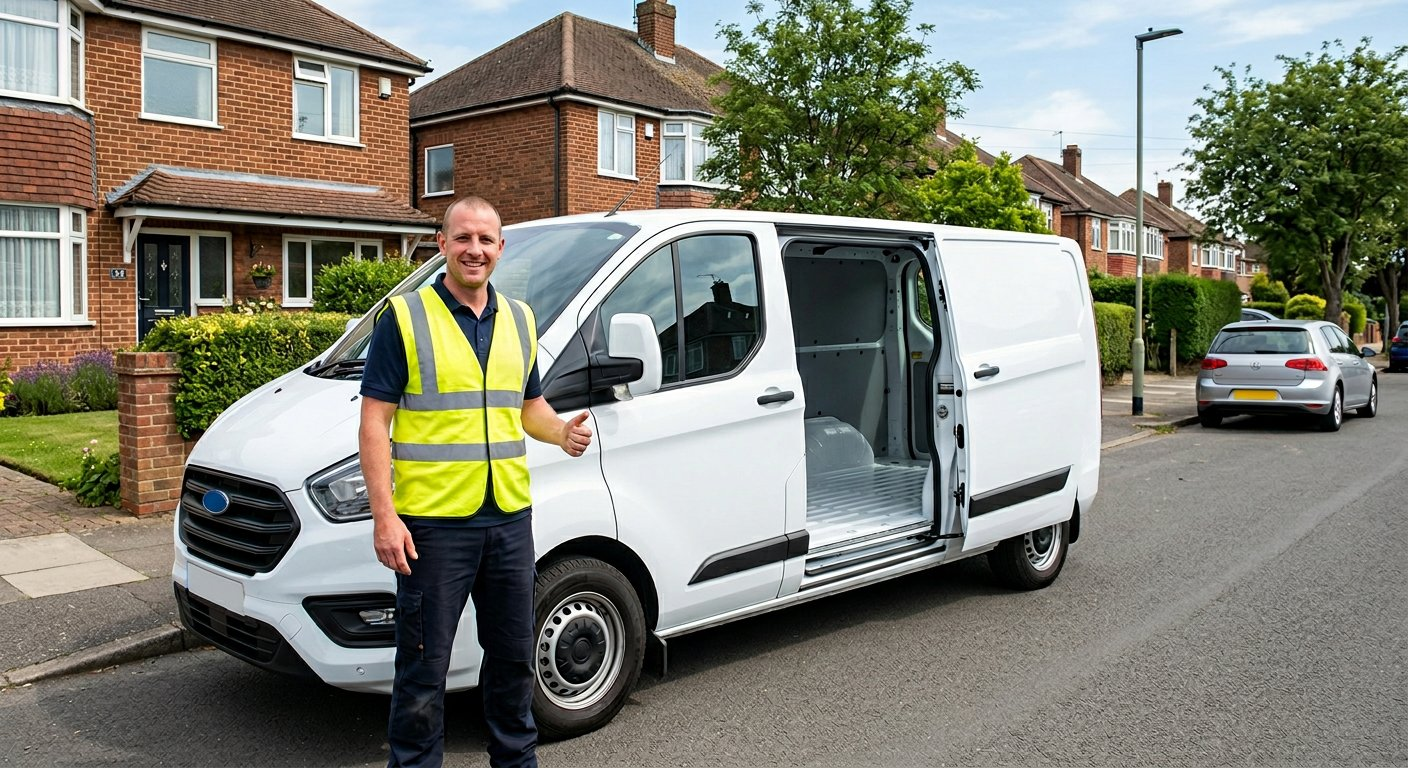
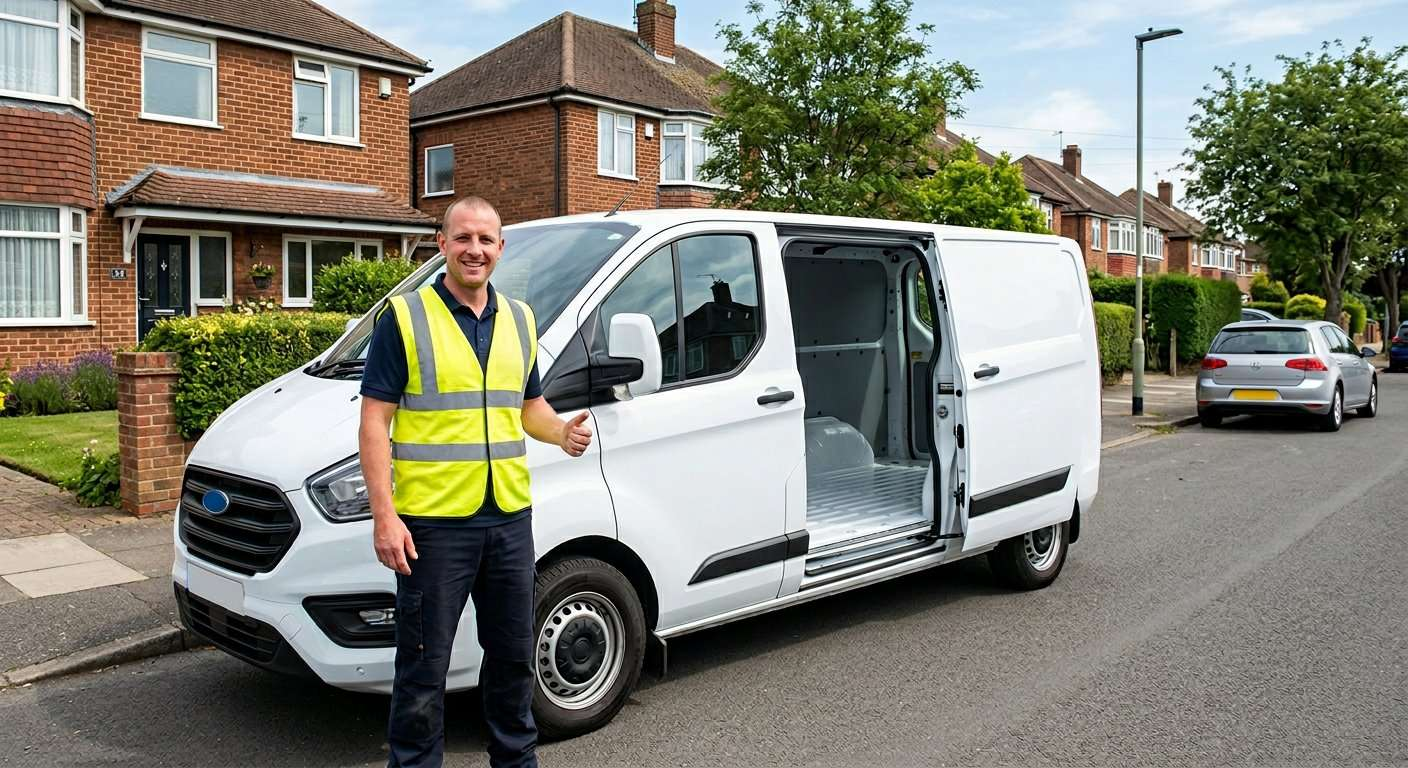
Homepage SEO audit: fix H1 keywords, add content section, update llms.txt, add HowTo schema, fix Service schema, compress hero image
- H1 changed from 'Start Your Move Request' to 'Moving Home? Man and Van From £45' (now contains primary keywords matching title tag)
- Added 'Verified movers' to hero sub-line
- Added visible 'How Man and Van Club works' content section with 2 readable paragraphs between How It Works and Popular Areas
- Fixed llms.txt: all £50 references updated to £45 (was outdated after repricing)
- Removed duplicate canonical from layout.tsx (canonical only in page.tsx now)
- Added piano-removals and single-item-delivery to Service schema serviceType
- Expanded Service schema areaServed to cover all UK regions + Scotland/Wales/Northern Ireland
- Added HowTo schema for 'What happens next' 3-step process
- Compressed hero image: 313KB → 175KB (44% reduction), now progressive JPEG

Changed region(s): [[0.2812, 0.3438, 0.3125, 0.375], [0.25, 0.375, 0.2812, 0.4062]]

diff --git a/src/app/page.tsx b/src/app/page.tsx
@@ -63,6 +63,15 @@ export default function Home() {
       { "@type": "AdministrativeArea", "name": "Greater London" },
       { "@type": "AdministrativeArea", "name": "Greater Manchester" },
       { "@type": "AdministrativeArea", "name": "Merseyside" },
+      { "@type": "AdministrativeArea", "name": "South East England" },
+      { "@type": "AdministrativeArea", "name": "South West England" },
+      { "@type": "AdministrativeArea", "name": "North East England" },
+      { "@type": "AdministrativeArea", "name": "North West England" },
+      { "@type": "AdministrativeArea", "name": "Yorkshire and the Humber" },
+      { "@type": "AdministrativeArea", "name": "East of England" },
+      { "@type": "Country", "name": "Scotland" },
+      { "@type": "Country", "name": "Wales" },
+      { "@type": "Country", "name": "Northern Ireland" },
       { "@type": "Country", "name": "United Kingdom" },
     ],
     "serviceType": [
@@ -73,8 +82,38 @@ export default function Home() {
       "Student moves",
       "Furniture delivery",
       "Office moves",
+      "Piano removals",
+      "Single item delivery",
     ],
     "description": "Marketplace helping customers submit free move requests for anything from single-item collections to full home moves. An approved mover reviews the details and sends a quote before the customer decides whether to book.",
+  };
+
+  const howToSchema = {
+    "@context": "https://schema.org",
+    "@type": "HowTo",
+    "name": "How to get a man and van quote on Man and Van Club",
+    "description": "Submit a free move request, receive a quote from a verified mover, and decide whether to book — no obligation.",
+    "totalTime": "PT2M",
+    "step": [
+      {
+        "@type": "HowToStep",
+        "position": 1,
+        "name": "Submit your details",
+        "text": "Enter your postcodes, items, move date and access notes. Free and takes under a minute.",
+      },
+      {
+        "@type": "HowToStep",
+        "position": 2,
+        "name": "A verified mover reviews it",
+        "text": "One approved mover — not five companies — reviews your anonymised details and sends a quote.",
+      },
+      {
+        "@type": "HowToStep",
+        "position": 3,
+        "name": "Accept or walk away",
+        "text": "If the quote works, book it. If not, no obligation. Your details stay private.",
+      },
+    ],
   };
 
   return (
@@ -86,6 +125,10 @@ export default function Home() {
       <script
         type="application/ld+json"
         dangerouslySetInnerHTML={{ __html: JSON.stringify(serviceSchema) }}
+      />
+      <script
+        type="application/ld+json"
+        dangerouslySetInnerHTML={{ __html: JSON.stringify(howToSchema) }}
       />
       <HomeContent />
     </>

diff --git a/src/app/HomeContent.tsx b/src/app/HomeContent.tsx
@@ -60,11 +60,11 @@ export default function HomeContent() {
             style={{ fontSize: "clamp(28px, 6.5vw, 44px)", lineHeight: "1.05" }}
             data-speakable="hero-heading"
           >
-            Start Your Move Request
+            Moving Home? Man and Van From £45
           </h1>
 
           <p className="mt-3 text-sm font-bold text-white/80 tracking-wide" data-speakable="hero-description">
-            Free to submit · No spam · Details protected
+            Free to submit · Verified movers · No spam · Details protected
           </p>
 
           {/* Move Type Selector */}
@@ -184,6 +184,23 @@ export default function HomeContent() {
               <h3 className="font-black text-primary text-sm uppercase tracking-tight mb-1">Accept or walk away</h3>
               <p className="text-text-secondary text-xs leading-relaxed">If the quote works, book it. If not, no obligation. Your details stay private.</p>
             </div>
+          </div>
+        </div>
+      </section>
+
+      {/* ──────────────────── About the Service ──────────────────── */}
+      <section className="py-12 lg:py-14 bg-white border-b border-border">
+        <div className="container mx-auto px-4 max-w-3xl">
+          <h2 className="text-2xl font-black text-primary uppercase tracking-tighter text-center mb-6">
+            How Man and Van Club works
+          </h2>
+          <div className="space-y-4 text-sm text-text-secondary leading-relaxed max-w-2xl mx-auto">
+            <p>
+              Man and Van Club is a UK marketplace that connects you with independent, verified local movers. Whether you&apos;re moving a single sofa across town or an entire flat to another city, you submit one free request and a checked-and-approved mover reviews your details before quoting. No comparison tables, no five companies ringing you — just one quote from one verified mover.
+            </p>
+            <p>
+              Prices start from £45/hr, which undercuts the typical £50/hr you&apos;ll see on larger platforms. Every mover on the platform holds Goods in Transit and Public Liability insurance, and their business details are verified before they can access any move requests. You stay in control: review the quote, accept or walk away, no obligation.
+            </p>
           </div>
         </div>
       </section>

diff --git a/src/app/layout.tsx b/src/app/layout.tsx
@@ -27,7 +27,6 @@ export const metadata: Metadata = {
   description: "Moving home? Man and van from £45/hr. Verified movers for house removals, flat moves, furniture delivery and same-day jobs across the UK. One approved mover reviews your details before you book. Call 0121 751 1269.",
   metadataBase: new URL(siteUrl),
   alternates: {
-    canonical: siteUrl,
     languages: {
       'en-GB': siteUrl,
     },